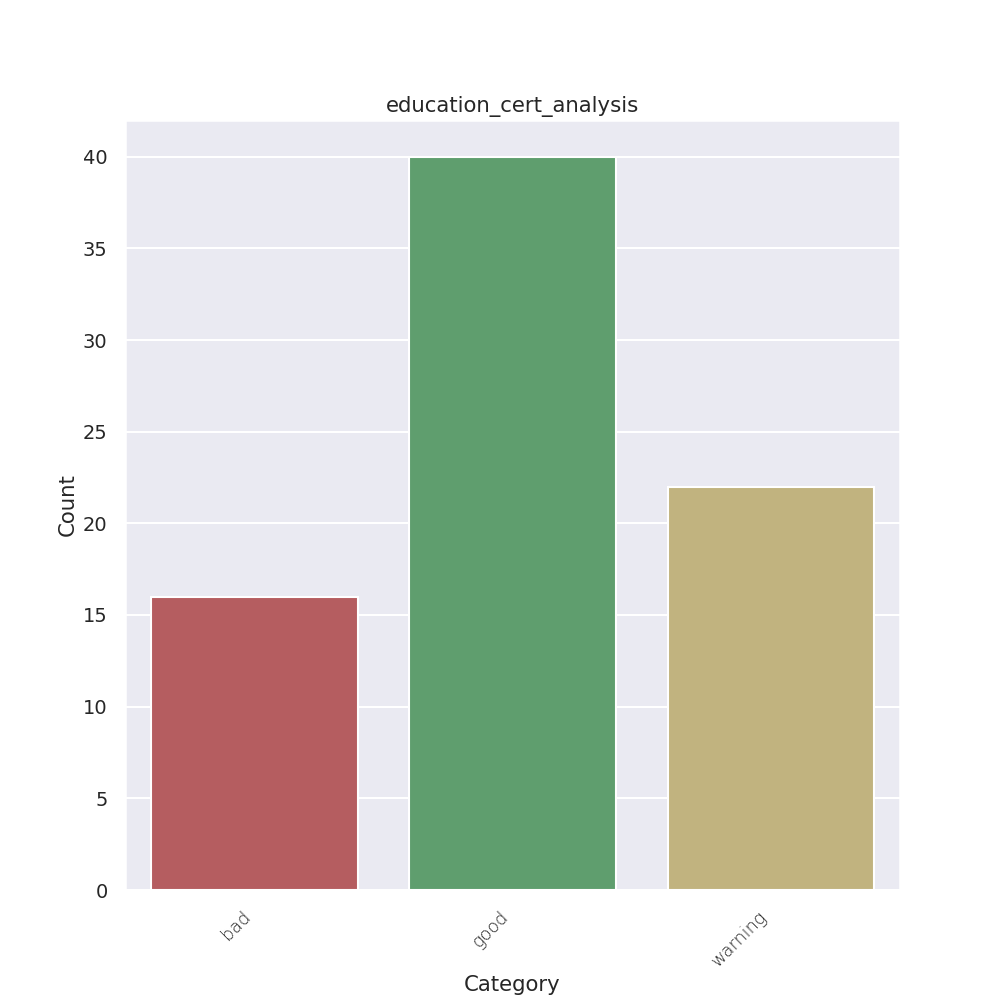
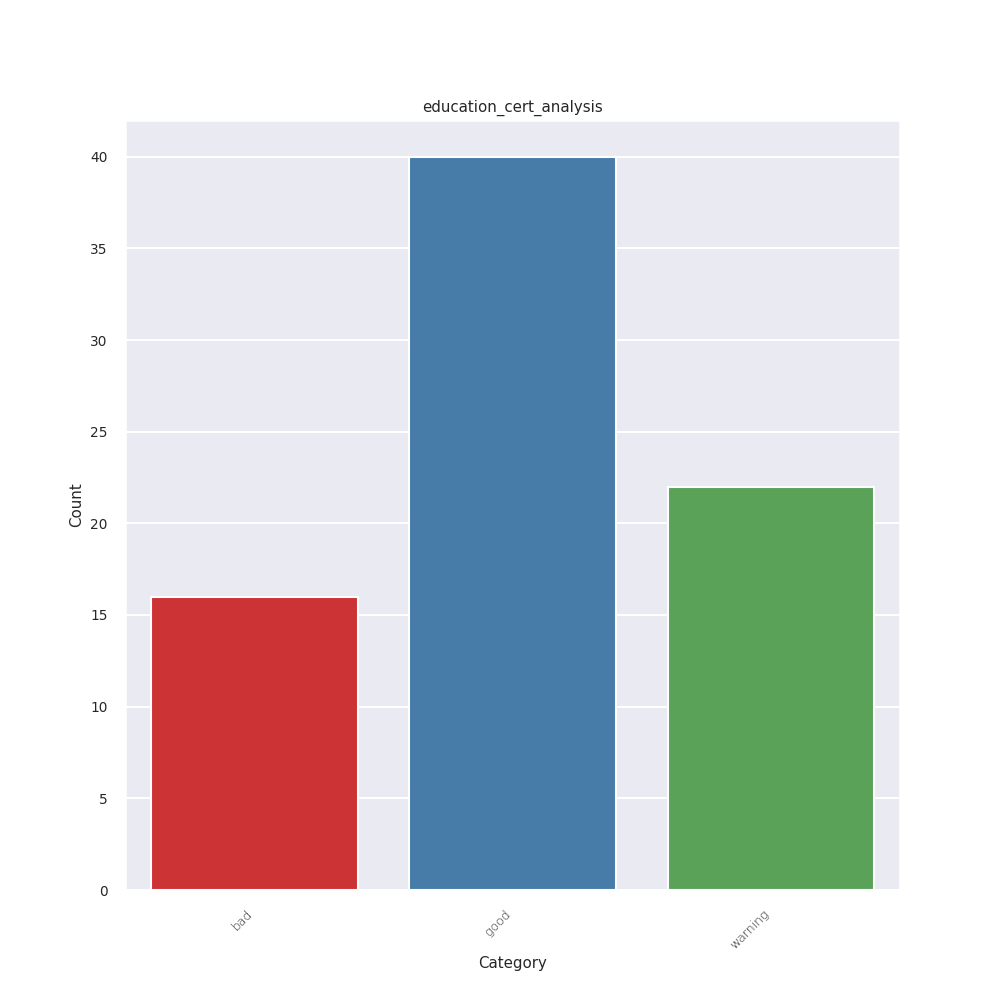
More visualizations dealing with code_analysis sections. Moving on to CWE and Permission mining issues next

diff --git a/src/scripts/analyzer.py b/src/scripts/analyzer.py
@@ -145,27 +145,21 @@ class Analyzer:
                     code_headers[header] = code_headers[header] + 1
                 else:
                     code_headers[header] = 1
-            '''
-            for k,v in subdict.items():
-                if "path" in k:
-                    instances = len(v)
-                    if 'count' in code_items:
-                        code_items['count'] = code_items['count'] + instances
+        return code_headers
+    
+    def headers_code_analysis_by_genre(self, genre):
+        appIDs = self.get_appIDs_by_genre(genre)
+        code_headers = {}
+        for singular_app in appIDs:
+            app_dict = self.data[singular_app]
+            file_analysis_list = self.get_defined_key_reduced(app_dict, 'code_analysis')
+            for subdict in file_analysis_list:
+                for header in subdict:
+                    if header in code_headers:
+                        code_headers[header] = code_headers[header]+1
                     else:
-                        code_items['count'] = instances
-                
-                if "level" in k:
-                    code_items['level'] = v
-                if "cvss" in k:
-                    code_items['cvss'] = v
-                if 'cwe' in k:
-                    code_items['cwe'] = v
-                if 'owasp' in k:
-                    code_items['owasp'] = v
-            '''
-                #code_items_list.append(code_items)
-                #code_items.clear()
-        print(json.dumps(code_headers, indent=4))
+                        code_headers[header] = 1
+                        
         return code_headers
     
     def levels_code_analysis(self):
@@ -182,7 +176,6 @@ class Analyzer:
                 else:
                     code_levels[level] = 1
             
-        print(json.dumps(code_levels, indent=4))
         return code_levels
     
     def levels_code_analysis_by_genere(self, genre):
@@ -201,7 +194,7 @@ class Analyzer:
                     code_levels[level] = code_levels[level] + 1
                 else:
                     code_levels[level] = 1
-        print(json.dumps(code_levels, indent=4))
+       
         return code_levels
 
     def owasp_code_analysis(self):
@@ -236,7 +229,7 @@ class Analyzer:
                     code_owasps[owasp] = code_owasps[owasp] + 1
                 else:
                     code_owasps[owasp] = 1
-        print(json.dumps(code_owasps, indent=4))           
+                  
         return code_owasps
     
     def cvss_code_analysis(self):
@@ -272,7 +265,7 @@ class Analyzer:
                 else:
                     code_cvss[cvss] = 1
                     
-        print(json.dumps(code_cvss, indent=4))
+        
         return code_cvss
     
     #Very broken, walking away for now....
@@ -294,7 +287,7 @@ class Analyzer:
                 else:
                     code_dict['occurances'] = len(self.extract_values(subdict,'path'))
                     
-                print(json.dumps(code_dict, indent=4))
+                #print(json.dumps(code_dict, indent=4))
         return
     
     #Not used, broken.
@@ -639,7 +632,6 @@ class Analyzer:
         return rules
 
     def process(self):
-
         self.generate_cwe_csv(self.genre_list)
         self.generate_permissons_csv(self.genre_list)
         
@@ -662,66 +654,39 @@ class Analyzer:
             'all_code_analysis': self.get_code_analysis(),
             'genre_info': self.get_genre_count_info(),
             'playstore_scores': self.get_quartiles(app_scores, "Playstore Scores"),
-            'business_dangerous_permissions': self.permissions_by_genre("BUSINESS"),
-            'business_file_analysis': self.get_file_analysis_by_genre("BUSINESS"),
-            'business_cert_analysis': self.certificate_analysis_by_genre("BUSINESS"),
-            'business_code_analysis': self.cwe_count_by_genre('BUSINESS'),
-            'social_dangerous_permissions': self.permissions_by_genre('SOCIAL'),
-            'social_file_analysis': self.get_file_analysis_by_genre("SOCIAL"),
-            'social_cert_analysis': self.certificate_analysis_by_genre('SOCIAL'),
-            'social_code_analysis': self.cwe_count_by_genre('SOCIAL'),
-            'entertainment_dangerous_permissions': self.permissions_by_genre('ENTERTAINMENT'),
-            'entertainment_file_analysis': self.get_file_analysis_by_genre("ENTERTAINMENT"),
-            'entertainment_cert_analysis': self.certificate_analysis_by_genre('ENTERTAINMENT'),
-            'entertainment_code_analysis': self.cwe_count_by_genre('ENTERTAINMENT'),
-            'productivity_dangerous_permissions': self.permissions_by_genre('PRODUCTIVITY'),
-            'productivity_file_analysis': self.get_file_analysis_by_genre("PRODUCTIVITY"),
-            'productivity_cert_analysis': self.certificate_analysis_by_genre('PRODUCTIVITY'),
-            'productivity_code_analysis': self.cwe_count_by_genre('PRODUCTIVITY'),
-            'education_dangerous_permissions': self.permissions_by_genre('EDUCATION'),
-            'education_file_analysis': self.get_file_analysis_by_genre("EDUCATION"),
-            'education_cert_analysis': self.certificate_analysis_by_genre('EDUCATION'),
-            'education_code_analysis': self.cwe_count_by_genre('EDUCATION'),
-            'video_players_dangerous_permissions': self.permissions_by_genre('VIDEO_PLAYERS'),
-            'video_players_file_analysis': self.get_file_analysis_by_genre("VIDEO_PLAYERS"),
-            'video_players_cert_analysis': self.certificate_analysis_by_genre('VIDEO_PLAYERS'),
-            'video_players_code_analysis': self.cwe_count_by_genre('VIDEO_PLAYERS'),
-            'news_and_magazines_dangerous_permissions': self.permissions_by_genre('NEWS_AND_MAGAZINES'),
-            'news_and_magazines_analysis': self.get_file_analysis_by_genre("NEWS_AND_MAGAZINES"),
-            'news_and_magazines_cert_analysis': self.certificate_analysis_by_genre('NEWS_AND_MAGAZINES'),
-            'news_and_magazines_code_analysis': self.cwe_count_by_genre('NEWS_AND_MAGAZINES'),
-            'photography_dangerous_permissions': self.permissions_by_genre('PHOTOGRAPHY'),
-            'photography_file_analysis': self.get_file_analysis_by_genre("PHOTOGRAPHY"),
-            'photography_cert_analysis': self.certificate_analysis_by_genre('PHOTOGRAPHY'),
-            'photography_code_analysis': self.cwe_count_by_genre('PHOTOGRAPHY'),
-            'communication_dangerous_permissions': self.permissions_by_genre('COMMUNICATION'),
-            'communication_file_analysis': self.get_file_analysis_by_genre("COMMUNICATION"),
-            'communication_cert_analysis': self.certificate_analysis_by_genre('COMMUNICATION'),
-            'communication_code_analysis': self.cwe_count_by_genre('COMMUNICATION'),
-            'music_and_audio_dangerous_permissions': self.permissions_by_genre('MUSIC_AND_AUDIO'),
-            'music_and_audio_file_analysis': self.get_file_analysis_by_genre("MUSIC_AND_AUDIO"),
-            'music_and_audio_cert_analysis': self.certificate_analysis_by_genre('MUSIC_AND_AUDIO'),
-            'music_and_audio_code_analysis': self.cwe_count_by_genre('MUSIC_AND_AUDIO'),
-            'tools_dangerous_permissions': self.permissions_by_genre('TOOLS'),
-            'tools_file_analysis': self.get_file_analysis_by_genre("TOOLS"),
-            'tools_cert_analysis': self.certificate_analysis_by_genre('TOOLS'),
-            'tools_code_analysis': self.cwe_count_by_genre('TOOLS'),
-            'travel_and_local_dangerous_permissions': self.permissions_by_genre('TRAVEL_AND_LOCAL'),
-            'travel_and_local_file_analysis': self.get_file_analysis_by_genre("TRAVEL_AND_LOCAL"),
-            'travel_and_local_cert_analysis': self.certificate_analysis_by_genre('TRAVEL_AND_LOCAL'),
-            'travel_and_local_code_analysis': self.cwe_count_by_genre('TRAVEL_AND_LOCAL'),
-            'game_dangerous_permissions': self.permissions_by_genre("GAME"),
-            'game_file_analysis': self.get_file_analysis_by_genre("GAME"),
-            'game_cert_analysis': self.certificate_analysis_by_genre("GAME"),
-            'game_code_analysis': self.cwe_count_by_genre("GAME")
+            
         }
-
+        
         print(json.dumps(info, indent=4))
-        with open('../data/info.json', 'w') as f:
+        with open('../data/base-results/all.json', 'w') as f:
             json.dump(info, f)
             
-        return
         
+        
+        for genre in self.genre_list:
+            if genre != 'all':
+                self.genre_analysis(genre)
+        
+        return
+    
+    def genre_analysis(self, genre):
+        low_g = genre.lower()
+        results = {
+                low_g+'_cert_analysis': self.certificate_analysis_by_genre(genre),
+                low_g+'_file_analysis': self.get_file_analysis_by_genre(genre),
+                low_g+'_dangerous_permissions': self.permissions_by_genre(genre),
+                low_g+'_offenses_code_analysis': self.headers_code_analysis_by_genre(genre),
+                low_g+'_cwe_code_analysis': self.cwe_count_by_genre(genre),
+                low_g+'_levels_code_analysis': self.levels_code_analysis_by_genere(genre),
+                low_g+'_owasp_code_analysis': self.owasp_code_analysis_by_genre(genre),
+                low_g+'_cvss_code_analysis': self.cvss_code_analysis_by_genre(genre)
+            }
+        print(json.dumps(results, indent=4))
+        with open('../data/base-results/'+low_g+'.json','w') as f:
+            json.dump(results, f)
+            
+        self.data_visualizations_by_genre(genre)
+        return
 
     def get_quartiles(self, collection, description):
         create_pd = pd.DataFrame(collection, columns=['col_name'], index=None)
@@ -783,6 +748,40 @@ class Analyzer:
         
         return
     
+    def data_visualizations_by_genre(self, genre):
+        with open('../data/base-results/'+genre.lower()+'.json','r') as f:
+            genre_data = json.load(f)
+            
+        sns.set(context='talk', font_scale=0.60)
+        
+        analysis_keys = ['_cert_analysis', '_cwe_code_analysis',
+                         '_levels_code_analysis', '_owasp_code_analysis',
+                         '_cvss_code_analysis', '_file_analysis']
+        
+        for target in analysis_keys:
+            self.genre_vis_helper(genre, target, genre_data)
+        
+        return
+
+    def genre_vis_helper(self, genre, analysis, data):
+        
+        key = genre.lower()+analysis
+        frame = self.dict_to_df(data[key])
+        frame = frame.sort_values('Category')
+        if '_owasp_code_analysis' in analysis:
+            frame["Category"] = [x[0:2] for x in frame["Category"]]
+        elif '_file_analysis' in analysis:
+           frame.drop(frame[frame['Category'] == 'Hardcoded'].index, inplace=True)
+           frame.drop(frame[frame['Category'] == 'Certificate/Key'].index, inplace=True)
+           frame["Category"] = [x.rstrip('-LEN') for x in frame['Category']]
+
+        if '_levels_code_analysis' in analysis:
+            self.plot_bar_chart(frame, title=key, xlabel='Category', ylabel='Count', palette={"good":"g", "high": "r","info":"y", "warning":"b"})
+        else:
+            self.plot_bar_chart(frame, title=key, xlabel='Category', ylabel='Count', palette="Set1")
+
+        return
+
     def dict_to_df(self, data):
         df = pd.DataFrame(list(data.items()), columns=['Category','Count'])
         return df
@@ -801,8 +800,18 @@ class Analyzer:
         path='../data/plots/'
         if '_cert_analysis' in title:
             path = '../data/plots/cert_analysis_plots/'
-        elif '_code_analysis' in title:
-            path='../data/plots/code_analysis_plots/'
+        elif 'cwe_code_analysis' in title:
+            path='../data/plots/cwe_code_analysis_plots/'
+        elif '_levels_code_analysis' in title:
+            path = '../data/plots/levels_code_analysis_plots/'
+        elif '_owasp_code_analysis' in title:
+            path = '../data/plots/owasp_code_analysis_plots/'
+        elif '_cvss_code_analysis' in title:
+            path = '../data/plots/cvss_code_analysis_plots/'
+        elif '_file_analysis' in title:
+            path = '../data/plots/file_analysis_plots/'
+            
+        
         fig.savefig(path+title+'_plot.png')
         
         #Needed for memory consumption
@@ -851,17 +860,7 @@ if __name__ == "__main__":
     analyze = Analyzer()
     #analyze.get_file_analysis()
     
-    #analyze.process()
-    '''
-    analyze.headers_code_analysis()
-    analyze.levels_code_analysis()
-    analyze.owasp_code_analysis()
-    
-    analyze.cvss_code_analysis()
-    '''
-    #analyze.deep_code_analysis()
-    analyze.levels_code_analysis_by_genere('PRODUCTIVITY')
-    analyze.owasp_code_analysis_by_genre('PRODUCTIVITY')
-    analyze.cvss_code_analysis_by_genre('PRODUCTIVITY')
+    analyze.process()
+    #analyze.data_visualizations_by_genre('GAME')
     
     #analyze.data_visualizations()
